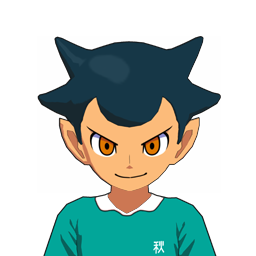
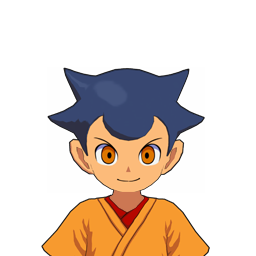
feat(inazuma): el zukan oficial entra en juego - 70 videos y 27 retratos corregidos
Nueva fuente: zukan.inazuma.jp (la enciclopedia oficial de Level-5,
EN/JP). Sus videos van en el MISMO CDN que inazumo pero con la
extension .wmv de senuelo (la real es .webm) y sus fichas de personaje
traen POR JUEGO la imagen, el equipo y el GRUPO DE EDAD - justo lo que
faltaba para auditar con criterio.

VIDEOS (70):
- 55 tecnicas que solo tenian datos VR ganan su video oficial y 15
  entradas nuevas (emparejadas por nombre EN directo o via el puente
  nombre ES -> inazumo -> nombre EN/JP -> zukan).
- 14 enlaces de YouTube (que un <video> no reproduce: estaban rotos de
  facto) sustituidos por webm del CDN.
- 4 videos que no coincidian con ninguno de los oficiales del zukan
  (ground-quake, rocket-kobushi, black-hole, galatyn) reemplazados.
- 173 videos existentes VERIFICADOS contra el set oficial.

RETRATOS (27, identificados por hash MD5 contra las versiones del
zukan y filtrados a mano):
- 13 versiones ADULTAS fuera (Axel, Wallside, Hurley Kane x2, Scott
  Banyan x3, Nathan, Shawn, Steve Grim, Kevin, Dave Quagmire...):
  todos a su version de instituto de la era correcta.
- 14 CAMISETAS corregidas: Nathan y Kevin de Inazuma Japan ya no
  visten de Emperadores Oscuros, Shadow Cimmerian de los Emperadores
  ahora SI viste de Emperador, Erik Eagle de Unicorn con su camiseta
  del Unicorn, los de Shin Teikoku con el uniforme Redux, Caleb con
  la elastica nacional, etc.
- Descartadas a mano las propuestas dudosas del audit (habrian metido
[…]

diff --git a/src/data/inazuma/tech-videos.ts b/src/data/inazuma/tech-videos.ts
@@ -21,7 +21,7 @@ export const TECH_MEDIA: Record<string, TechMedia> = {
   'ushiro-no-shoumen': { video: 'https://dxi4wb638ujep.cloudfront.net/1/k/a/g/agohnf61bsm.webm', vrPower: 50, vrTension: 50 },
   'volcano-cut': { video: 'https://dxi4wb638ujep.cloudfront.net/1/k/g/4/g4xnwolnx9s.webm', vrPower: 60, vrTension: 60 },
   'gravitation': { video: 'https://dxi4wb638ujep.cloudfront.net/1/k/1/w/1wqn_ugqzoe.webm', vrPower: 70, vrTension: 70 },
-  'sabaki-no-tettsui': { vrPower: 70, vrTension: 70 },
+  'sabaki-no-tettsui': { video: 'https://dxi4wb638ujep.cloudfront.net/1/k/7/j/7j_ur8jdszm.webm', vrPower: 70, vrTension: 70 },
   'cyclone': { video: 'https://dxi4wb638ujep.cloudfront.net/1/k/o/y/oy0u2ma1zv0.webm', vrPower: 60, vrTension: 60 },
   'block-circus': { video: 'https://dxi4wb638ujep.cloudfront.net/1/k/5/w/5wrzvrfzalu.webm', vrPower: 60, vrTension: 60 },
   'shooting-star': { video: 'https://dxi4wb638ujep.cloudfront.net/1/k/5/x/5xgfqxhswp8.webm', vrPower: 60, vrTension: 60 },
@@ -29,9 +29,9 @@ export const TECH_MEDIA: Record<string, TechMedia> = {
   'dual-storm': { video: 'https://dxi4wb638ujep.cloudfront.net/1/k/s/a/saehpizirf0.webm', vrPower: 70, vrTension: 70 },
   'harvest': { video: 'https://dxi4wb638ujep.cloudfront.net/1/k/1/5/15zkvbnq628.webm', vrPower: 60, vrTension: 60 },
   'frozen-steal': { video: 'https://dxi4wb638ujep.cloudfront.net/1/k/g/j/gjqud78p-au.webm', vrPower: 60, vrTension: 60 },
-  'whale-guard': { vrPower: 60, vrTension: 60 },
+  'whale-guard': { video: 'https://dxi4wb638ujep.cloudfront.net/1/k/f/m/fmj3nymshls.webm', vrPower: 60, vrTension: 60 },
   'earthquake': { video: 'https://dxi4wb638ujep.cloudfront.net/1/k/i/3/i3xhl7v9gpe.webm', vrPower: 50, vrTension: 50 },
-  'giant-spin': { vrPower: 60, vrTension: 60 },
+  'giant-spin': { video: 'https://dxi4wb638ujep.cloudfront.net/1/k/v/f/vflszwnpgt0.webm', vrPower: 60, vrTension: 60 },
   'doppelganger': { video: 'https://dxi4wb638ujep.cloudfront.net/1/k/w/7/w7xdzzcyw68.webm', vrPower: 50, vrTension: 50 },
   'profile-zone': { video: 'https://dxi4wb638ujep.cloudfront.net/1/k/6/h/6ho7o32c4jc.webm', vrPower: 50, vrTension: 50 },
   'dash-train': { video: 'https://dxi4wb638ujep.cloudfront.net/1/k/z/q/zqiv0vrdiw0.webm', vrPower: 50, vrTension: 50 },
@@ -39,8 +39,8 @@ export const TECH_MEDIA: Record<string, TechMedia> = {
   'rolling-slide': { video: 'https://dxi4wb638ujep.cloudfront.net/1/k/l/m/lmipidgm-jm.webm', vrPower: 60, vrTension: 60 },
   'super-shikofumi': { video: 'https://dxi4wb638ujep.cloudfront.net/1/k/m/x/mxmswqiceec.webm', vrPower: 60, vrTension: 60 },
   'zigzag-flame': { video: 'https://dxi4wb638ujep.cloudfront.net/1/k/_/m/_m3xtqfuzck.webm', vrPower: 60, vrTension: 60 },
-  'rock-wall-dam': { vrPower: 60, vrTension: 60 },
-  'welcome-back': { vrPower: 60, vrTension: 60 },
+  'rock-wall-dam': { video: 'https://dxi4wb638ujep.cloudfront.net/1/k/w/v/wv6clbzv-mu.webm', vrPower: 60, vrTension: 60 },
+  'welcome-back': { video: 'https://dxi4wb638ujep.cloudfront.net/1/k/r/j/rjrcxazeld8.webm', vrPower: 60, vrTension: 60 },
   'dark-mist': { video: 'https://dxi4wb638ujep.cloudfront.net/1/k/k/m/kmpxvmu8tre.webm', vrPower: 60, vrTension: 60 },
   'dancing-turtle': { video: 'https://dxi4wb638ujep.cloudfront.net/1/k/n/o/noe_poumevs.webm', vrPower: 60, vrTension: 60 },
   'deep-diver': { video: 'https://dxi4wb638ujep.cloudfront.net/1/k/0/o/0or3f1vsz60.webm', vrPower: 60, vrTension: 60 },
@@ -48,27 +48,27 @@ export const TECH_MEDIA: Record<string, TechMedia> = {
   'murakumo-trap': { video: 'https://dxi4wb638ujep.cloudfront.net/1/k/f/c/fcedzg5dyau.webm', vrPower: 60, vrTension: 60 },
   'snow-angel': { video: 'https://dxi4wb638ujep.cloudfront.net/1/k/i/c/ictytiuf7cu.webm', vrPower: 60, vrTension: 60 },
   'gravestone': { video: 'https://dxi4wb638ujep.cloudfront.net/1/k/4/v/4v-uh7yawwk.webm', vrPower: 60, vrTension: 60 },
-  'mega-wall': { vrPower: 60, vrTension: 60 },
+  'mega-wall': { video: 'https://dxi4wb638ujep.cloudfront.net/1/k/1/j/1j6aso0qlzc.webm', vrPower: 60, vrTension: 60 },
   'power-charge': { video: 'https://dxi4wb638ujep.cloudfront.net/1/k/y/a/yadhymhsj2u.webm', vrPower: 60, vrTension: 60 },
-  'roadroller-tackle': { vrPower: 60, vrTension: 60 },
+  'roadroller-tackle': { video: 'https://dxi4wb638ujep.cloudfront.net/1/k/f/x/fxm05fphflu.webm', vrPower: 60, vrTension: 60 },
   'stone-prison': { video: 'https://dxi4wb638ujep.cloudfront.net/1/k/6/o/6o5ipig2tqk.webm', vrPower: 60, vrTension: 60 },
   'metal-hammer': { video: 'https://dxi4wb638ujep.cloudfront.net/1/k/o/f/ofwxnkqxqjm.webm', vrPower: 60, vrTension: 60 },
   'flame-dance': { video: 'https://dxi4wb638ujep.cloudfront.net/1/k/p/h/phbz4m3clce.webm', vrPower: 70, vrTension: 70 },
-  'mad-express': { vrPower: 70, vrTension: 70 },
+  'mad-express': { video: 'https://dxi4wb638ujep.cloudfront.net/1/k/a/m/amjbqmjhl6k.webm', vrPower: 70, vrTension: 70 },
   'asteroid-belt': { video: 'https://dxi4wb638ujep.cloudfront.net/1/k/2/5/25l0q_kk748.webm', vrPower: 70, vrTension: 70 },
   'demon-cut': { video: 'https://dxi4wb638ujep.cloudfront.net/1/k/z/b/zbrplpyntdu.webm', vrPower: 70, vrTension: 70 },
   'killer-slide': { video: 'https://dxi4wb638ujep.cloudfront.net/1/k/7/-/7-hcmdbru6s.webm', vrPower: 50, vrTension: 50 },
   'double-cyclone': { video: 'https://dxi4wb638ujep.cloudfront.net/1/k/k/r/kr8d22isj8c.webm', vrPower: 70, vrTension: 70 },
   'kaijin-the-quake': { video: 'https://dxi4wb638ujep.cloudfront.net/1/k/g/t/gtna9lj4lls.webm', vrPower: 70, vrTension: 70 },
-  'barbarian-no-tate': { vrPower: 70, vrTension: 70 },
+  'barbarian-no-tate': { video: 'https://dxi4wb638ujep.cloudfront.net/1/k/5/u/5ukidr1oa-k.webm', vrPower: 70, vrTension: 70 },
   'the-mountain': { video: 'https://dxi4wb638ujep.cloudfront.net/1/k/i/4/i4str8yqex8.webm', vrPower: 70, vrTension: 70 },
-  'hissatsu-kumagoroshi-baku': { vrPower: 70, vrTension: 70 },
+  'hissatsu-kumagoroshi-baku': { video: 'https://dxi4wb638ujep.cloudfront.net/1/k/2/7/27_qnqcha-0.webm', vrPower: 70, vrTension: 70 },
   'kumo-no-ito': { video: 'https://dxi4wb638ujep.cloudfront.net/1/k/z/w/zwf1bz8pecc.webm', vrPower: 60, vrTension: 60 },
   'the-wall': { video: 'https://dxi4wb638ujep.cloudfront.net/1/k/t/q/tqgunvnu5vk.webm', vrPower: 60, vrTension: 60 },
   'sigma-zone': { video: 'https://dxi4wb638ujep.cloudfront.net/1/k/v/5/v5nibjewkp0.webm', vrPower: 80, vrTension: 80 },
   'perfect-tower': { video: 'https://dxi4wb638ujep.cloudfront.net/1/k/r/l/rlbpueattp8.webm', vrPower: 80, vrTension: 80 },
   'body-shield': { video: 'https://dxi4wb638ujep.cloudfront.net/1/k/4/a/4ajnguku9pc.webm', vrPower: 80, vrTension: 80 },
-  'ground-quake': { video: 'https://dxi4wb638ujep.cloudfront.net/1/k/i/3/i3xhl7v9gpe.webm', vrPower: 80, vrTension: 80 },
+  'ground-quake': { video: 'https://dxi4wb638ujep.cloudfront.net/1/k/p/5/p5nhwejappc.webm', vrPower: 80, vrTension: 80 },
   'no-escape': { video: 'https://dxi4wb638ujep.cloudfront.net/1/k/y/v/yvqsvzrmivs.webm', vrPower: 80, vrTension: 80 },
   'spinning-cut': { video: 'https://dxi4wb638ujep.cloudfront.net/1/k/p/g/pgbz7_wk1dk.webm', vrPower: 50, vrTension: 50 },
   'killer-whale': { video: 'https://dxi4wb638ujep.cloudfront.net/1/k/8/d/8dwrn6lhjrm.webm', vrPower: 60, vrTension: 60 },
@@ -78,7 +78,7 @@ export const TECH_MEDIA: Record<string, TechMedia> = {
   'viva-banri-no-choujou': { video: 'https://dxi4wb638ujep.cloudfront.net/1/k/t/1/t1orvwevc4c.webm', vrPower: 60, vrTension: 60 },
   'dimension-cut': { video: 'https://dxi4wb638ujep.cloudfront.net/1/k/e/n/enuca-cf538.webm', vrPower: 60, vrTension: 60 },
   'hunter-s-net': { video: 'https://dxi4wb638ujep.cloudfront.net/1/k/q/z/qzd9i-noxjc.webm', vrPower: 60, vrTension: 60 },
-  'sneaking-raid': { vrPower: 60, vrTension: 60 },
+  'sneaking-raid': { video: 'https://dxi4wb638ujep.cloudfront.net/1/k/2/h/2hxfpyyvpdm.webm', vrPower: 60, vrTension: 60 },
   'sargasso': { video: 'https://dxi4wb638ujep.cloudfront.net/1/k/p/n/pn8wcejbpus.webm', vrPower: 60, vrTension: 60 },
   'iron-wall': { video: 'https://dxi4wb638ujep.cloudfront.net/1/k/8/r/8r2ob_hthnu.webm', vrPower: 70, vrTension: 70 },
   'crazy-sunlight': { video: 'https://dxi4wb638ujep.cloudfront.net/1/k/-/i/-i33jj3nmxm.webm', vrPower: 60, vrTension: 60 },
@@ -87,7 +87,7 @@ export const TECH_MEDIA: Record<string, TechMedia> = {
   'killer-blade': { video: 'https://dxi4wb638ujep.cloudfront.net/1/k/f/f/ff0h_0qhk1s.webm', vrPower: 50, vrTension: 50 },
   'toughness-block': { video: 'https://dxi4wb638ujep.cloudfront.net/1/k/l/z/lzl3jp-bam0.webm', vrPower: 60, vrTension: 60 },
   'nekketsu-punch': { video: 'https://dxi4wb638ujep.cloudfront.net/1/k/9/u/9uwbinvtjms.webm', vrPower: 60, vrTension: 60 },
-  'rocket-kobushi': { video: 'https://dxi4wb638ujep.cloudfront.net/1/k/s/u/suzcf07w4rc.webm', vrPower: 60, vrTension: 60 },
+  'rocket-kobushi': { video: 'https://dxi4wb638ujep.cloudfront.net/1/k/4/r/4rm3gj7wkvc.webm', vrPower: 60, vrTension: 60 },
   'aurora-curtain': { video: 'https://dxi4wb638ujep.cloudfront.net/1/k/u/j/ujsqtzhfuc0.webm', vrPower: 50, vrTension: 50 },
   'wild-claw': { video: 'https://dxi4wb638ujep.cloudfront.net/1/k/i/p/ip6z1yabehu.webm', vrPower: 50, vrTension: 50 },
   'bakuretsu-punch': { video: 'https://dxi4wb638ujep.cloudfront.net/1/k/9/u/9uwbinvtjms.webm', vrPower: 60, vrTension: 60 },
@@ -105,24 +105,24 @@ export const TECH_MEDIA: Record<string, TechMedia> = {
   'beast-fang': { video: 'https://dxi4wb638ujep.cloudfront.net/1/k/r/m/rmbormdwvik.webm', vrPower: 80, vrTension: 80 },
   'the-end': { video: 'https://dxi4wb638ujep.cloudfront.net/1/k/k/y/ky7xv54m-ue.webm', vrPower: 80, vrTension: 80 },
   'sweat-stillness': { video: 'https://dxi4wb638ujep.cloudfront.net/1/k/s/4/s4vryfh7dts.webm', vrPower: 50, vrTension: 50 },
-  'slash-nail': { vrPower: 50, vrTension: 50 },
-  'kogarashi': { vrPower: 50, vrTension: 50 },
-  'swan-dive': { vrPower: 50, vrTension: 50 },
-  'black-hole': { video: 'https://dxi4wb638ujep.cloudfront.net/1/k/8/5/850527tcrgk.webm', vrPower: 60, vrTension: 60 },
-  'stinger': { vrPower: 60, vrTension: 60 },
+  'slash-nail': { video: 'https://dxi4wb638ujep.cloudfront.net/1/k/h/e/hetg-34nvas.webm', vrPower: 50, vrTension: 50 },
+  'kogarashi': { video: 'https://dxi4wb638ujep.cloudfront.net/1/k/p/i/pizem781jeu.webm', vrPower: 50, vrTension: 50 },
+  'swan-dive': { video: 'https://dxi4wb638ujep.cloudfront.net/1/k/s/w/swqgxx9qlpe.webm', vrPower: 50, vrTension: 50 },
+  'black-hole': { video: 'https://dxi4wb638ujep.cloudfront.net/1/k/v/3/v3jbu0be2qe.webm', vrPower: 60, vrTension: 60 },
+  'stinger': { video: 'https://dxi4wb638ujep.cloudfront.net/1/k/b/3/b3mvpg8t_au.webm', vrPower: 60, vrTension: 60 },
   'kikai-hei-gareus': { vrPower: 100, vrTension: 0 },
-  'galatyn': { video: 'https://dxi4wb638ujep.cloudfront.net/1/k/s/i/sinwfe9pimc.webm', vrPower: 60, vrTension: 60 },
+  'galatyn': { video: 'https://dxi4wb638ujep.cloudfront.net/1/k/o/_/o_lvam5ebz8.webm', vrPower: 60, vrTension: 60 },
   'hyouketsu-no-mai': { video: 'https://dxi4wb638ujep.cloudfront.net/1/k/m/x/mx0gubmeqwc.webm', vrPower: 60, vrTension: 60 },
   'ice-block': { video: 'https://dxi4wb638ujep.cloudfront.net/1/k/h/n/hnh7txsd5n0.webm', vrPower: 60, vrTension: 60 },
   'meikyou-shisui': { video: 'https://dxi4wb638ujep.cloudfront.net/1/k/_/f/_fzg97jt0d0.webm', vrPower: 60, vrTension: 60 },
   'needle-hammer': { video: 'https://dxi4wb638ujep.cloudfront.net/1/k/0/p/0pwyc2uuxl8.webm', vrPower: 60, vrTension: 60 },
   'storm-rider': { video: 'https://dxi4wb638ujep.cloudfront.net/1/k/d/4/d4btxzwym4e.webm', vrPower: 60, vrTension: 60 },
   'kyoshin-gigantes': { vrPower: 100, vrTension: 0 },
-  'card-protect': { vrPower: 60, vrTension: 60 },
+  'card-protect': { video: 'https://dxi4wb638ujep.cloudfront.net/1/k/7/y/7yxkpyr2sjk.webm', vrPower: 60, vrTension: 60 },
   'colosseo-guard': { video: 'https://dxi4wb638ujep.cloudfront.net/1/k/y/h/yh9bv3cjhh0.webm', vrPower: 60, vrTension: 60 },
   'flash-upper': { video: 'https://dxi4wb638ujep.cloudfront.net/1/k/n/v/nvsikwaapj8.webm', vrPower: 60, vrTension: 60 },
   'gravity-desert': { video: 'https://dxi4wb638ujep.cloudfront.net/1/k/v/i/viefo0fhdym.webm', vrPower: 60, vrTension: 60 },
-  'million-hands': { video: 'https://www.youtube.com/watch?v=dHpQwtskTPA', vrPower: 70, vrTension: 70 },
+  'million-hands': { video: 'https://dxi4wb638ujep.cloudfront.net/1/k/i/q/iqqkm4u7iqm.webm', vrPower: 70, vrTension: 70 },
   'outer-world': { video: 'https://dxi4wb638ujep.cloudfront.net/1/k/8/v/8vcobk3jqiu.webm', vrPower: 70, vrTension: 70 },
   'triple-defense': { video: 'https://dxi4wb638ujep.cloudfront.net/1/k/z/x/zxfs21ga8xk.webm', vrPower: 70, vrTension: 70 },
   'power-shield': { video: 'https://dxi4wb638ujep.cloudfront.net/1/k/h/-/h-7pm2_jlbm.webm', vrPower: 60, vrTension: 60 },
@@ -133,27 +133,27 @@ export const TECH_MEDIA: Record<string, TechMedia> = {
   'dai-bakuhatsu-harite': { video: 'https://dxi4wb638ujep.cloudfront.net/1/k/a/z/aziwu6qgb7e.webm', vrPower: 60, vrTension: 60 },
   'power-spike': { video: 'https://dxi4wb638ujep.cloudfront.net/1/k/9/k/9khdr7e29ou.webm', vrPower: 50, vrTension: 50 },
   'wormhole': { video: 'https://dxi4wb638ujep.cloudfront.net/1/k/i/x/ix2vrmshnsu.webm', vrPower: 70, vrTension: 70 },
-  'megami-tairiku': { vrPower: 100, vrTension: 100 },
+  'megami-tairiku': { video: 'https://dxi4wb638ujep.cloudfront.net/1/k/i/g/igmtrjowzs8.webm', vrPower: 100, vrTension: 100 },
   'god-fingers': { video: 'https://dxi4wb638ujep.cloudfront.net/1/k/y/r/yrl2igycaje.webm', vrPower: 100, vrTension: 100 },
   'high-voltage': { video: 'https://dxi4wb638ujep.cloudfront.net/1/k/s/u/suzcf07w4rc.webm', vrPower: 100, vrTension: 100 },
   'gigant-wall': { video: 'https://dxi4wb638ujep.cloudfront.net/1/k/y/-/y-x8gxwz32s.webm', vrPower: 70, vrTension: 70 },
-  'counterdrive-gk': { vrPower: 60, vrTension: 60 },
+  'counterdrive-gk': { video: 'https://dxi4wb638ujep.cloudfront.net/1/k/h/h/hhry1wrzzwu.webm', vrPower: 60, vrTension: 60 },
   'capoeira-snatch': { video: 'https://dxi4wb638ujep.cloudfront.net/1/k/l/g/lghkajqhwxs.webm', vrPower: 60, vrTension: 60 },
   'fence-of-gaia': { video: 'https://dxi4wb638ujep.cloudfront.net/1/k/n/o/nok5tig8g1k.webm', vrPower: 60, vrTension: 60 },
-  'mugen-the-hand': { video: 'https://www.youtube.com/watch?v=9FI9fkXOGUY', vrPower: 80, vrTension: 80 },
+  'mugen-the-hand': { video: 'https://dxi4wb638ujep.cloudfront.net/1/k/e/x/exa-4i8suo8.webm', vrPower: 80, vrTension: 80 },
   // OJO: el vídeo que inazumo asigna a la Mano Celestial X es en realidad el
   // del Drill Smasher (rótulo ドリルスマッシャー en el propio vídeo) — la X se
   // queda sin vídeo hasta que exista uno de verdad.
-  'god-hand-x': { vrPower: 80, vrTension: 80 },
-  'god-hand-v': { video: 'https://www.youtube.com/watch?v=5wgAcJPNAh8', vrPower: 80, vrTension: 80 },
-  'majin-the-hand': { video: 'https://www.youtube.com/watch?v=QWrzOxEUUiI', vrPower: 80, vrTension: 80 },
+  'god-hand-x': { video: 'https://dxi4wb638ujep.cloudfront.net/1/k/-/n/-nrin2fnr6u.webm', vrPower: 80, vrTension: 80 },
+  'god-hand-v': { video: 'https://dxi4wb638ujep.cloudfront.net/1/k/u/t/ut9iefsekem.webm', vrPower: 80, vrTension: 80 },
+  'majin-the-hand': { video: 'https://dxi4wb638ujep.cloudfront.net/1/k/n/w/nwg132u6zek.webm', vrPower: 80, vrTension: 80 },
   'magic': { video: 'https://dxi4wb638ujep.cloudfront.net/1/k/x/t/xt5ycql4lns.webm', vrPower: 50, vrTension: 50 },
   'super-armadillo': { video: 'https://dxi4wb638ujep.cloudfront.net/1/k/n/-/n-quqzxnmtc.webm', vrPower: 50, vrTension: 50 },
   'meteor-shower': { video: 'https://dxi4wb638ujep.cloudfront.net/1/k/2/m/2mctmiftdtu.webm', vrPower: 70, vrTension: 70 },
   'warp-drive': { video: 'https://dxi4wb638ujep.cloudfront.net/1/k/w/j/wjhm1vwl2nk.webm', vrPower: 60, vrTension: 60 },
   'prima-donna': { video: 'https://dxi4wb638ujep.cloudfront.net/1/k/8/5/85sgaznpghm.webm', vrPower: 60, vrTension: 60 },
   'aurora-dribble': { video: 'https://dxi4wb638ujep.cloudfront.net/1/k/y/-/y-u-tfbo0lc.webm', vrPower: 70, vrTension: 70 },
-  'oouchiwa': { vrPower: 60, vrTension: 60 },
+  'oouchiwa': { video: 'https://dxi4wb638ujep.cloudfront.net/1/k/0/t/0tfpirxbgru.webm', vrPower: 60, vrTension: 60 },
   'dash-storm': { video: 'https://dxi4wb638ujep.cloudfront.net/1/k/k/a/kappfm_ujse.webm', vrPower: 70, vrTension: 70 },
   'monkey-turn': { video: 'https://dxi4wb638ujep.cloudfront.net/1/k/7/1/71sqpngpeu0.webm', vrPower: 50, vrTension: 50 },
   'flame-veil': { video: 'https://dxi4wb638ujep.cloudfront.net/1/k/u/c/ucm6bmijzlk.webm', vrPower: 60, vrTension: 60 },
@@ -166,15 +166,15 @@ export const TECH_MEDIA: Record<string, TechMedia> = {
   'dokugiri-no-jutsu': { video: 'https://dxi4wb638ujep.cloudfront.net/1/k/t/r/trjhduivtns.webm', vrPower: 50, vrTension: 50 },
   'moonsault': { video: 'https://dxi4wb638ujep.cloudfront.net/1/k/v/y/vy-uyzzuohs.webm', vrPower: 50, vrTension: 50 },
   'tamanori-pierrot': { video: 'https://dxi4wb638ujep.cloudfront.net/1/k/s/-/s-a4nn4uqyu.webm', vrPower: 50, vrTension: 50 },
-  'armadillo-circus': { vrPower: 60, vrTension: 60 },
+  'armadillo-circus': { video: 'https://dxi4wb638ujep.cloudfront.net/1/k/-/y/-yra0a1flbm.webm', vrPower: 60, vrTension: 60 },
   'mad-juggler': { video: 'https://dxi4wb638ujep.cloudfront.net/1/k/u/a/uawpeilerhk.webm', vrPower: 60, vrTension: 60 },
-  'liar-shot': { vrPower: 60, vrTension: 60 },
+  'liar-shot': { video: 'https://dxi4wb638ujep.cloudfront.net/1/k/4/l/4l6rvu5sxhe.webm', vrPower: 60, vrTension: 60 },
   'hayabusa-gaeshi': { video: 'https://dxi4wb638ujep.cloudfront.net/1/k/r/o/rop35gyam4c.webm', vrPower: 60, vrTension: 60 },
   'genei-no-dalamanglass': { vrPower: 100, vrTension: 0 },
   'entertainer': { vrPower: 100, vrTension: 0 },
   'ayakashi-dribble': { video: 'https://dxi4wb638ujep.cloudfront.net/1/k/t/v/tvirx5ksj-c.webm', vrPower: 60, vrTension: 60 },
   'matrix-eye': { video: 'https://dxi4wb638ujep.cloudfront.net/1/k/x/h/xhscq9ti5ys.webm', vrPower: 60, vrTension: 60 },
-  'echo-ball': { vrPower: 60, vrTension: 60 },
+  'echo-ball': { video: 'https://dxi4wb638ujep.cloudfront.net/1/k/m/h/mhfzez6owes.webm', vrPower: 60, vrTension: 60 },
   'ultra-moon': { video: 'https://dxi4wb638ujep.cloudfront.net/1/k/n/k/nkn0__arwn0.webm', vrPower: 70, vrTension: 70 },
   'majin-pegasus': { vrPower: 100, vrTension: 0 },
   'naminori-pierrot': { video: 'https://dxi4wb638ujep.cloudfront.net/1/k/x/a/xa8fz2ktn-s.webm', vrPower: 50, vrTension: 50 },
@@ -182,27 +182,27 @@ export const TECH_MEDIA: Record<string, TechMedia> = {
   'yamabiko-step': { video: 'https://dxi4wb638ujep.cloudfront.net/1/k/a/j/ajdjhclyure.webm', vrPower: 60, vrTension: 60 },
   'elegant-blade': { video: 'https://dxi4wb638ujep.cloudfront.net/1/k/g/m/gm-wuf-6hl0.webm', vrPower: 60, vrTension: 60 },
   'matador-feint': { video: 'https://dxi4wb638ujep.cloudfront.net/1/k/d/m/dmxng7p8on0.webm', vrPower: 50, vrTension: 50 },
-  'u-boat': { vrPower: 60, vrTension: 60 },
+  'u-boat': { video: 'https://dxi4wb638ujep.cloudfront.net/1/k/w/m/wmwvsamrduc.webm', vrPower: 60, vrTension: 60 },
   'hitori-one-two': { video: 'https://dxi4wb638ujep.cloudfront.net/1/k/c/w/cwpzjeshvn8.webm', vrPower: 60, vrTension: 60 },
   'blackmail': { video: 'https://dxi4wb638ujep.cloudfront.net/1/k/r/j/rjixbxnj_lk.webm', vrPower: 70, vrTension: 70 },
   'boost-glider': { video: 'https://dxi4wb638ujep.cloudfront.net/1/k/v/w/vwo9t3wdwls.webm', vrPower: 70, vrTension: 70 },
   'reppuu-dash': { video: 'https://dxi4wb638ujep.cloudfront.net/1/k/3/8/38ahp3-w-hc.webm', vrPower: 70, vrTension: 70 },
   'dual-pass': { video: 'https://dxi4wb638ujep.cloudfront.net/1/k/t/-/t--sk70b4uu.webm', vrPower: 70, vrTension: 70 },
   'aikidou': { video: 'https://dxi4wb638ujep.cloudfront.net/1/k/y/a/yadhymhsj2u.webm', vrPower: 70, vrTension: 70 },
-  'triple-dash': { vrPower: 70, vrTension: 70 },
+  'triple-dash': { video: 'https://dxi4wb638ujep.cloudfront.net/1/k/v/f/vf5okim39su.webm', vrPower: 70, vrTension: 70 },
   'fuujin-no-mai': { video: 'https://dxi4wb638ujep.cloudfront.net/1/k/u/v/uvhajddqa4c.webm', vrPower: 70, vrTension: 70 },
   'devil-ball': { video: 'https://dxi4wb638ujep.cloudfront.net/1/k/u/t/utrj8z09ysc.webm', vrPower: 70, vrTension: 70 },
   'angel-ball': { video: 'https://dxi4wb638ujep.cloudfront.net/1/k/l/f/lfgormsh1h0.webm', vrPower: 70, vrTension: 70 },
   'general-flag': { video: 'https://dxi4wb638ujep.cloudfront.net/1/k/f/j/fj3pw8kby0m.webm', vrPower: 80, vrTension: 80 },
   'super-elastico': { video: 'https://dxi4wb638ujep.cloudfront.net/1/k/9/j/9j0szmc0dte.webm', vrPower: 60, vrTension: 60 },
   'the-ikaros': { video: 'https://dxi4wb638ujep.cloudfront.net/1/k/f/h/fhq7oi7qtl0.webm', vrPower: 70, vrTension: 70 },
-  'killer-fields': { video: 'https://www.youtube.com/watch?v=mlaqbwjNS9g', vrPower: 80, vrTension: 80 },
+  'killer-fields': { video: 'https://dxi4wb638ujep.cloudfront.net/1/k/r/a/raodh-hr5hk.webm', vrPower: 80, vrTension: 80 },
   'air-ride': { video: 'https://dxi4wb638ujep.cloudfront.net/1/k/j/j/jjlkcrfw6ss.webm', vrPower: 70, vrTension: 70 },
   'ribbon-shower': { video: 'https://dxi4wb638ujep.cloudfront.net/1/k/f/f/ff0ulux7ry8.webm', vrPower: 60, vrTension: 60 },
-  'zigzag-spark': { vrPower: 50, vrTension: 50 },
+  'zigzag-spark': { video: 'https://dxi4wb638ujep.cloudfront.net/1/k/j/w/jwxzkyeuhb8.webm', vrPower: 50, vrTension: 50 },
   'claymore': { video: 'https://dxi4wb638ujep.cloudfront.net/1/k/y/l/ylutbcaqjym.webm', vrPower: 60, vrTension: 60 },
   'southern-crosscut': { video: 'https://dxi4wb638ujep.cloudfront.net/1/k/h/k/hkzyl3jxue8.webm', vrPower: 70, vrTension: 70 },
-  'heaven-s-time': { video: 'https://www.youtube.com/watch?v=BJtlb_kJtzA', vrPower: 80, vrTension: 80 },
+  'heaven-s-time': { video: 'https://dxi4wb638ujep.cloudfront.net/1/k/1/d/1ddbhusc7bc.webm', vrPower: 80, vrTension: 80 },
   'nobori-ryuu': { video: 'https://dxi4wb638ujep.cloudfront.net/1/k/h/p/hpuxxnf8qmc.webm', vrPower: 70, vrTension: 70 },
   'olympus-harmony': { video: 'https://dxi4wb638ujep.cloudfront.net/1/k/q/b/qbf26yjghv0.webm', vrPower: 70, vrTension: 70 },
   'grenade-shot': { video: 'https://dxi4wb638ujep.cloudfront.net/1/k/s/t/st3acdvmvdm.webm', vrPower: 50, vrTension: 50 },
@@ -234,7 +234,7 @@ export const TECH_MEDIA: Record<string, TechMedia> = {
   'death-zone': { video: 'https://dxi4wb638ujep.cloudfront.net/1/k/y/h/yhiytoweiik.webm', vrPower: 70, vrTension: 70 },
   'triple-boost': { video: 'https://dxi4wb638ujep.cloudfront.net/1/k/6/x/6x0jjg4eql0.webm', vrPower: 80, vrTension: 80 },
   'the-phoenix': { video: 'https://dxi4wb638ujep.cloudfront.net/1/k/t/y/tyynsp4p5u8.webm', vrPower: 80, vrTension: 80 },
-  'koutei-penguin-1gou': { video: 'https://www.youtube.com/watch?v=b7zJYAgYbAA', vrPower: 80, vrTension: 80 },
+  'koutei-penguin-1gou': { video: 'https://dxi4wb638ujep.cloudfront.net/1/k/n/y/nymhmhbznx0.webm', vrPower: 80, vrTension: 80 },
   'space-penguin': { video: 'https://dxi4wb638ujep.cloudfront.net/1/k/p/x/pxhrz95anws.webm', vrPower: 100, vrTension: 100 },
   'masou-kensei-clara-bunny': { vrPower: 100, vrTension: 0 },
   'gryphon': { vrPower: 100, vrTension: 0 },
@@ -242,7 +242,7 @@ export const TECH_MEDIA: Record<string, TechMedia> = {
   'double-grenade': { video: 'https://dxi4wb638ujep.cloudfront.net/1/k/x/f/xffhq4hskde.webm', vrPower: 60, vrTension: 60 },
   'sunshine-blade': { video: 'https://dxi4wb638ujep.cloudfront.net/1/k/d/u/duke22uxt9k.webm', vrPower: 60, vrTension: 60 },
   'dark-phoenix': { video: 'https://dxi4wb638ujep.cloudfront.net/1/k/l/_/l_fco5ek9wc.webm', vrPower: 100, vrTension: 100 },
-  'death-zone-2': { video: 'https://www.youtube.com/watch?v=s9ddXy0uciQ', vrPower: 80, vrTension: 80 },
+  'death-zone-2': { video: 'https://dxi4wb638ujep.cloudfront.net/1/k/e/7/e7uarpmzrbu.webm', vrPower: 80, vrTension: 80 },
   'security-shot': { video: 'https://dxi4wb638ujep.cloudfront.net/1/k/4/2/42z_nfqyvj0.webm', vrPower: 60, vrTension: 60 },
   'kaitei-neptune': { vrPower: 100, vrTension: 0 },
   'megalodon': { video: 'https://dxi4wb638ujep.cloudfront.net/1/k/3/_/3_sk6ianysk.webm', vrPower: 60, vrTension: 60 },
@@ -251,39 +251,39 @@ export const TECH_MEDIA: Record<string, TechMedia> = {
   'flying-marlin': { video: 'https://dxi4wb638ujep.cloudfront.net/1/k/o/-/o-xqwfcggde.webm', vrPower: 60, vrTension: 60 },
   'eagle-buster': { video: 'https://dxi4wb638ujep.cloudfront.net/1/k/e/w/ew98dwqg8rk.webm', vrPower: 60, vrTension: 60 },
   'gou-no-issen': { video: 'https://dxi4wb638ujep.cloudfront.net/1/k/w/d/wdsj1qabfim.webm', vrPower: 60, vrTension: 60 },
-  'jumping-thunder': { vrPower: 60, vrTension: 60 },
+  'jumping-thunder': { video: 'https://dxi4wb638ujep.cloudfront.net/1/k/k/5/k5ejollojxu.webm', vrPower: 60, vrTension: 60 },
   'kurukuru-head': { video: 'https://dxi4wb638ujep.cloudfront.net/1/k/m/3/m3umhhhwnus.webm', vrPower: 60, vrTension: 60 },
   'tiger-drive': { video: 'https://dxi4wb638ujep.cloudfront.net/1/k/i/0/i0xqmtgztw8.webm', vrPower: 60, vrTension: 60 },
   'gunshot': { video: 'https://dxi4wb638ujep.cloudfront.net/1/k/v/x/vxinhm9poku.webm', vrPower: 50, vrTension: 50 },
-  'card-buster': { vrPower: 60, vrTension: 60 },
-  'eiffel-drive': { vrPower: 50, vrTension: 50 },
+  'card-buster': { video: 'https://dxi4wb638ujep.cloudfront.net/1/k/3/q/3qbxd3m5z1c.webm', vrPower: 60, vrTension: 60 },
+  'eiffel-drive': { video: 'https://dxi4wb638ujep.cloudfront.net/1/k/o/q/oqx7qjjk_qu.webm', vrPower: 50, vrTension: 50 },
   'paladin-strike': { video: 'https://dxi4wb638ujep.cloudfront.net/1/k/1/e/1er4u7ihdqk.webm', vrPower: 60, vrTension: 60 },
   'cheat-blaster': { video: 'https://dxi4wb638ujep.cloudfront.net/1/k/h/a/haa3lyjzdbu.webm', vrPower: 70, vrTension: 70 },
   'dragon-cannon': { video: 'https://dxi4wb638ujep.cloudfront.net/1/k/d/a/dadqioxgycc.webm', vrPower: 70, vrTension: 70 },
-  'bahamut-crash': { vrPower: 70, vrTension: 70 },
+  'bahamut-crash': { video: 'https://dxi4wb638ujep.cloudfront.net/1/k/q/f/qf22ecqqdbe.webm', vrPower: 70, vrTension: 70 },
   'dragon-crash': { video: 'https://dxi4wb638ujep.cloudfront.net/1/k/d/f/dfghx8zccuk.webm', vrPower: 50, vrTension: 50 },
   'universe-blast': { video: 'https://dxi4wb638ujep.cloudfront.net/1/k/3/f/3flbewkqukm.webm', vrPower: 70, vrTension: 70 },
   'wyvern-blizzard': { video: 'https://dxi4wb638ujep.cloudfront.net/1/k/a/4/a4xwwbnwlfe.webm', vrPower: 70, vrTension: 70 },
   'megaton-head': { video: 'https://dxi4wb638ujep.cloudfront.net/1/k/g/v/gvq2iky1w28.webm', vrPower: 70, vrTension: 70 },
-  'hokkyoku-guma-2gou': { vrPower: 70, vrTension: 70 },
+  'hokkyoku-guma-2gou': { video: 'https://dxi4wb638ujep.cloudfront.net/1/k/3/f/3fz_rz89ynm.webm', vrPower: 70, vrTension: 70 },
   'hellfire': { video: 'https://dxi4wb638ujep.cloudfront.net/1/k/n/2/n2zt6hfbz88.webm', vrPower: 60, vrTension: 60 },
   'the-typhoon': { video: 'https://dxi4wb638ujep.cloudfront.net/1/k/w/e/weoyxej70pu.webm', vrPower: 60, vrTension: 60 },
-  'astro-gate': { vrPower: 60, vrTension: 60 },
+  'astro-gate': { video: 'https://dxi4wb638ujep.cloudfront.net/1/k/t/s/ts_c27gs1mu.webm', vrPower: 60, vrTension: 60 },
   'pegasus-shot': { video: 'https://dxi4wb638ujep.cloudfront.net/1/k/e/b/ebj_1dyedt8.webm', vrPower: 70, vrTension: 70 },
   'sonic-shot': { video: 'https://dxi4wb638ujep.cloudfront.net/1/k/d/l/dlhevunbomm.webm', vrPower: 60, vrTension: 60 },
   'tatsumaki-otoshi': { video: 'https://dxi4wb638ujep.cloudfront.net/1/k/-/b/-bd5bvr4dq0.webm', vrPower: 80, vrTension: 80 },
   'thunder-beast': { video: 'https://dxi4wb638ujep.cloudfront.net/1/k/p/z/pzsysq3cuzc.webm', vrPower: 70, vrTension: 70 },
   'sidewinder': { video: 'https://dxi4wb638ujep.cloudfront.net/1/k/_/r/_rftoqql-a8.webm', vrPower: 50, vrTension: 50 },
-  'meteodd-fire-tornado': { vrPower: 80, vrTension: 80 },
+  'meteodd-fire-tornado': { video: 'https://dxi4wb638ujep.cloudfront.net/1/k/k/w/kwvdnbli270.webm', vrPower: 80, vrTension: 80 },
   'twin-boost-f': { video: 'https://dxi4wb638ujep.cloudfront.net/1/k/x/w/xwo0ntryhe8.webm', vrPower: 80, vrTension: 80 },
-  'hidaruma-bakunetsudan': { vrPower: 85, vrTension: 80 },
+  'hidaruma-bakunetsudan': { video: 'https://dxi4wb638ujep.cloudfront.net/1/k/6/x/6xmdwfgz2m0.webm', vrPower: 85, vrTension: 80 },
   'double-tornado': { video: 'https://dxi4wb638ujep.cloudfront.net/1/k/j/a/jaxs8gs6g7u.webm', vrPower: 80, vrTension: 80 },
   'god-break': { video: 'https://dxi4wb638ujep.cloudfront.net/1/k/r/9/r9hxl1up7fu.webm', vrPower: 80, vrTension: 80 },
-  'tri-pegasus': { video: 'https://www.youtube.com/watch?v=g4EparYZDXs', vrPower: 80, vrTension: 80 },
+  'tri-pegasus': { video: 'https://dxi4wb638ujep.cloudfront.net/1/k/k/r/krfeukshod0.webm', vrPower: 80, vrTension: 80 },
   'gaia-break': { video: 'https://dxi4wb638ujep.cloudfront.net/1/k/g/3/g36gzpcq5xk.webm', vrPower: 80, vrTension: 80 },
   'slingshot': { video: 'https://dxi4wb638ujep.cloudfront.net/1/k/z/4/z4aah2fwsz8.webm', vrPower: 80, vrTension: 80 },
   'gladius-arch': { video: 'https://dxi4wb638ujep.cloudfront.net/1/k/c/v/cv5q8r2czme.webm', vrPower: 70, vrTension: 70 },
-  'tenkuu-otoshi': { video: 'https://www.youtube.com/watch?v=0pIo30A4-6c', vrPower: 70, vrTension: 70 },
+  'tenkuu-otoshi': { video: 'https://dxi4wb638ujep.cloudfront.net/1/k/i/q/iql9eba2htc.webm', vrPower: 70, vrTension: 70 },
   'dragon-slayer': { video: 'https://dxi4wb638ujep.cloudfront.net/1/k/e/0/e0-msikw2ke.webm', vrPower: 70, vrTension: 70 },
   'excalibur': { video: 'https://dxi4wb638ujep.cloudfront.net/1/k/t/c/tcmllsgj-du.webm', vrPower: 60, vrTension: 60 },
   'god-cannon': { video: 'https://dxi4wb638ujep.cloudfront.net/1/k/v/e/ve_-gzrddts.webm', vrPower: 70, vrTension: 70 },
@@ -291,10 +291,10 @@ export const TECH_MEDIA: Record<string, TechMedia> = {
   'double-jaw': { video: 'https://dxi4wb638ujep.cloudfront.net/1/k/c/6/c6ojbegoyv8.webm', vrPower: 60, vrTension: 60 },
   'koutei-penguin-x': { video: 'https://dxi4wb638ujep.cloudfront.net/1/k/g/4/g4q2wiqdeg0.webm', vrPower: 50, vrTension: 50 },
   'maximum-fire': { video: 'https://dxi4wb638ujep.cloudfront.net/1/k/1/x/1xclzuev2zc.webm', vrPower: 60, vrTension: 60 },
-  'tiger-storm': { video: 'https://www.youtube.com/watch?v=1ziNmOV3Ag4', vrPower: 80, vrTension: 80 },
+  'tiger-storm': { video: 'https://dxi4wb638ujep.cloudfront.net/1/k/v/c/vcpt_3ckb5s.webm', vrPower: 80, vrTension: 80 },
   'dark-matter': { video: 'https://dxi4wb638ujep.cloudfront.net/1/k/k/2/k2ofnmnnuge.webm', vrPower: 60, vrTension: 60 },
-  'bunshin-penguin': { vrPower: 70, vrTension: 70 },
-  'the-hurricane': { video: 'https://www.youtube.com/watch?v=T9l1Rx5xsq4', vrPower: 80, vrTension: 80 },
+  'bunshin-penguin': { video: 'https://dxi4wb638ujep.cloudfront.net/1/k/f/r/frrrcijzg50.webm', vrPower: 70, vrTension: 70 },
+  'the-hurricane': { video: 'https://dxi4wb638ujep.cloudfront.net/1/k/g/x/gxdfxd831fm.webm', vrPower: 80, vrTension: 80 },
   'unicorn-boost': { video: 'https://dxi4wb638ujep.cloudfront.net/1/k/v/z/vz4eyiu-wgu.webm', vrPower: 80, vrTension: 80 },
   'fire-tornado': { video: 'https://dxi4wb638ujep.cloudfront.net/1/k/o/j/ojtphhycf78.webm', vrPower: 60, vrTension: 60 },
   'the-galaxy': { video: 'https://dxi4wb638ujep.cloudfront.net/1/k/g/k/gk_xctt_vok.webm', vrPower: 100, vrTension: 100 },
@@ -308,7 +308,7 @@ export const TECH_MEDIA: Record<string, TechMedia> = {
   'grand-fire': { video: 'https://dxi4wb638ujep.cloudfront.net/1/k/-/0/-0qkmahmozm.webm', vrPower: 100, vrTension: 100 },
   'gran-fenrir': { video: 'https://dxi4wb638ujep.cloudfront.net/1/k/n/s/nsreczlurfc.webm', vrPower: 80, vrTension: 80 },
   'koutei-penguin-3gou': { video: 'https://dxi4wb638ujep.cloudfront.net/1/k/t/9/t9ixruqme_s.webm', vrPower: 100, vrTension: 100 },
-  'brave-shot': { vrPower: 100, vrTension: 100 },
+  'brave-shot': { video: 'https://dxi4wb638ujep.cloudfront.net/1/k/8/v/8vtwizvgt1m.webm', vrPower: 100, vrTension: 100 },
   'big-bang': { video: 'https://dxi4wb638ujep.cloudfront.net/1/k/m/4/m4-weaj_a_8.webm', vrPower: 100, vrTension: 100 },
   'x-blast': { video: 'https://dxi4wb638ujep.cloudfront.net/1/k/x/_/x_4ioq5xgvs.webm', vrPower: 70, vrTension: 70 },
   'chaos-break': { video: 'https://dxi4wb638ujep.cloudfront.net/1/k/n/9/n9c3lmzaagk.webm', vrPower: 100, vrTension: 100 },
@@ -316,18 +316,18 @@ export const TECH_MEDIA: Record<string, TechMedia> = {
   'eternal-blizzard': { video: 'https://dxi4wb638ujep.cloudfront.net/1/k/-/u/-unvcs5rk7k.webm', vrPower: 60, vrTension: 60 },
   'northern-impact': { video: 'https://dxi4wb638ujep.cloudfront.net/1/k/x/s/xsci2ohholk.webm', vrPower: 70, vrTension: 70 },
   'jet-stream': { video: 'https://dxi4wb638ujep.cloudfront.net/1/k/p/c/pcbrl_h2fak.webm', vrPower: 100, vrTension: 100 },
-  'dragon-s-tail': { vrPower: 70, vrTension: 70 },
+  'dragon-s-tail': { video: 'https://dxi4wb638ujep.cloudfront.net/1/k/w/g/wgxfaauyqmc.webm', vrPower: 70, vrTension: 70 },
   'atomic-flare': { video: 'https://dxi4wb638ujep.cloudfront.net/1/k/s/y/symnrf0ari8.webm', vrPower: 70, vrTension: 70 },
   'god-knows': { video: 'https://dxi4wb638ujep.cloudfront.net/1/k/f/j/fjsbt89vqiu.webm', vrPower: 70, vrTension: 70 },
   'koutei-penguin-7': { video: 'https://dxi4wb638ujep.cloudfront.net/1/k/6/g/6g8ntnzjfve.webm', vrPower: 80, vrTension: 80 },
-  'koutei-penguin-2gou': { video: 'https://www.youtube.com/watch?v=2Lb9Tb6Ptpw', vrPower: 80, vrTension: 80 },
+  'koutei-penguin-2gou': { video: 'https://dxi4wb638ujep.cloudfront.net/1/k/c/a/capg_we1udu.webm', vrPower: 80, vrTension: 80 },
   'inazuma-break': { video: 'https://dxi4wb638ujep.cloudfront.net/1/k/r/m/rmo2xslf49m.webm', vrPower: 100, vrTension: 100 },
   'devil-burst': { video: 'https://dxi4wb638ujep.cloudfront.net/1/k/f/e/femy73ftlgm.webm', vrPower: 70, vrTension: 70 },
   'black-ash': { video: 'https://dxi4wb638ujep.cloudfront.net/1/k/l/p/lph4dmgo4t0.webm', vrPower: 70, vrTension: 70 },
   'joker-rains': { video: 'https://dxi4wb638ujep.cloudfront.net/1/k/m/i/mizqrmezw1u.webm', vrPower: 70, vrTension: 70 },
   'white-hurricane': { video: 'https://dxi4wb638ujep.cloudfront.net/1/k/u/s/usx5wi5xmtk.webm', vrPower: 60, vrTension: 60 },
   'fire-tornado-dd': { video: 'https://dxi4wb638ujep.cloudfront.net/1/k/2/p/2p0wtdhqlgs.webm', vrPower: 80, vrTension: 80 },
-  'triangle-zz': { video: 'https://www.youtube.com/watch?v=0xNoKUNCtYE', vrPower: 80, vrTension: 80 },
+  'triangle-zz': { video: 'https://dxi4wb638ujep.cloudfront.net/1/k/2/g/2gdd0i3kofu.webm', vrPower: 80, vrTension: 80 },
   'supernova': { video: 'https://dxi4wb638ujep.cloudfront.net/1/k/j/e/jeceggmi4qc.webm', vrPower: 100, vrTension: 100 },
   'evolution': { video: 'https://dxi4wb638ujep.cloudfront.net/1/k/f/g/fgcnq7vgnze.webm', vrPower: 100, vrTension: 100 },
   // Añadidas a mano para la cadena de Neree Swaggy (la 'era' vr del catálogo).
@@ -336,6 +336,21 @@ export const TECH_MEDIA: Record<string, TechMedia> = {
   'floral-fiesta': { video: 'https://dxi4wb638ujep.cloudfront.net/1/k/9/n/9nxizbpfqsm.webm', vrPower: 80, vrTension: 80 },
   'sleeping-dust': { video: 'https://dxi4wb638ujep.cloudfront.net/1/k/a/o/aoto7qdknps.webm', vrPower: 70, vrTension: 70 },
   'heat-tackle': { video: 'https://dxi4wb638ujep.cloudfront.net/1/k/x/8/x8ob7_dmg-u.webm', vrPower: 60, vrTension: 60 },
+  'planet-shield': { video: 'https://dxi4wb638ujep.cloudfront.net/1/k/h/t/hty6qeh0dwc.webm' },
+  'dragon-storm': { video: 'https://dxi4wb638ujep.cloudfront.net/1/k/e/p/epwxxyiu_k0.webm' },
+  'dark-space': { video: 'https://dxi4wb638ujep.cloudfront.net/1/k/m/b/mbu-m2vkpce.webm' },
+  'super-god-hand': { video: 'https://dxi4wb638ujep.cloudfront.net/1/k/l/i/livuhmikt3k.webm' },
+  'god-hand-ev': { video: 'https://dxi4wb638ujep.cloudfront.net/1/k/2/r/2rjdn7gbt_m.webm' },
+  'majin-the-wave': { video: 'https://dxi4wb638ujep.cloudfront.net/1/k/3/9/39t49oylycu.webm' },
+  'god-catch-ft': { video: 'https://dxi4wb638ujep.cloudfront.net/1/k/2/d/2d8xnuknmk0.webm' },
+  'lucky-dice': { video: 'https://dxi4wb638ujep.cloudfront.net/1/k/i/k/iknwxatmv50.webm' },
+  'crimson-sphere': { video: 'https://dxi4wb638ujep.cloudfront.net/1/k/y/d/ydgvcv7ugim.webm' },
+  'hawk-shot': { video: 'https://dxi4wb638ujep.cloudfront.net/1/k/h/h/hhi0aw53e9s.webm' },
+  'super-megaton-head': { video: 'https://dxi4wb638ujep.cloudfront.net/1/k/g/x/gxl7iekatcm.webm' },
+  'inazuma-break-cg': { video: 'https://dxi4wb638ujep.cloudfront.net/1/k/h/0/h04yk9wscve.webm' },
+  'icicle-road': { video: 'https://dxi4wb638ujep.cloudfront.net/1/k/i/o/io9vtnjijy8.webm' },
+  'checkmate': { video: 'https://dxi4wb638ujep.cloudfront.net/1/k/q/t/qtemoyrpkn0.webm' },
+  'white-breath': { video: 'https://dxi4wb638ujep.cloudfront.net/1/k/q/a/qazgqjus5um.webm' },
 }
 
 export function techVideo(id: string): string | undefined {
